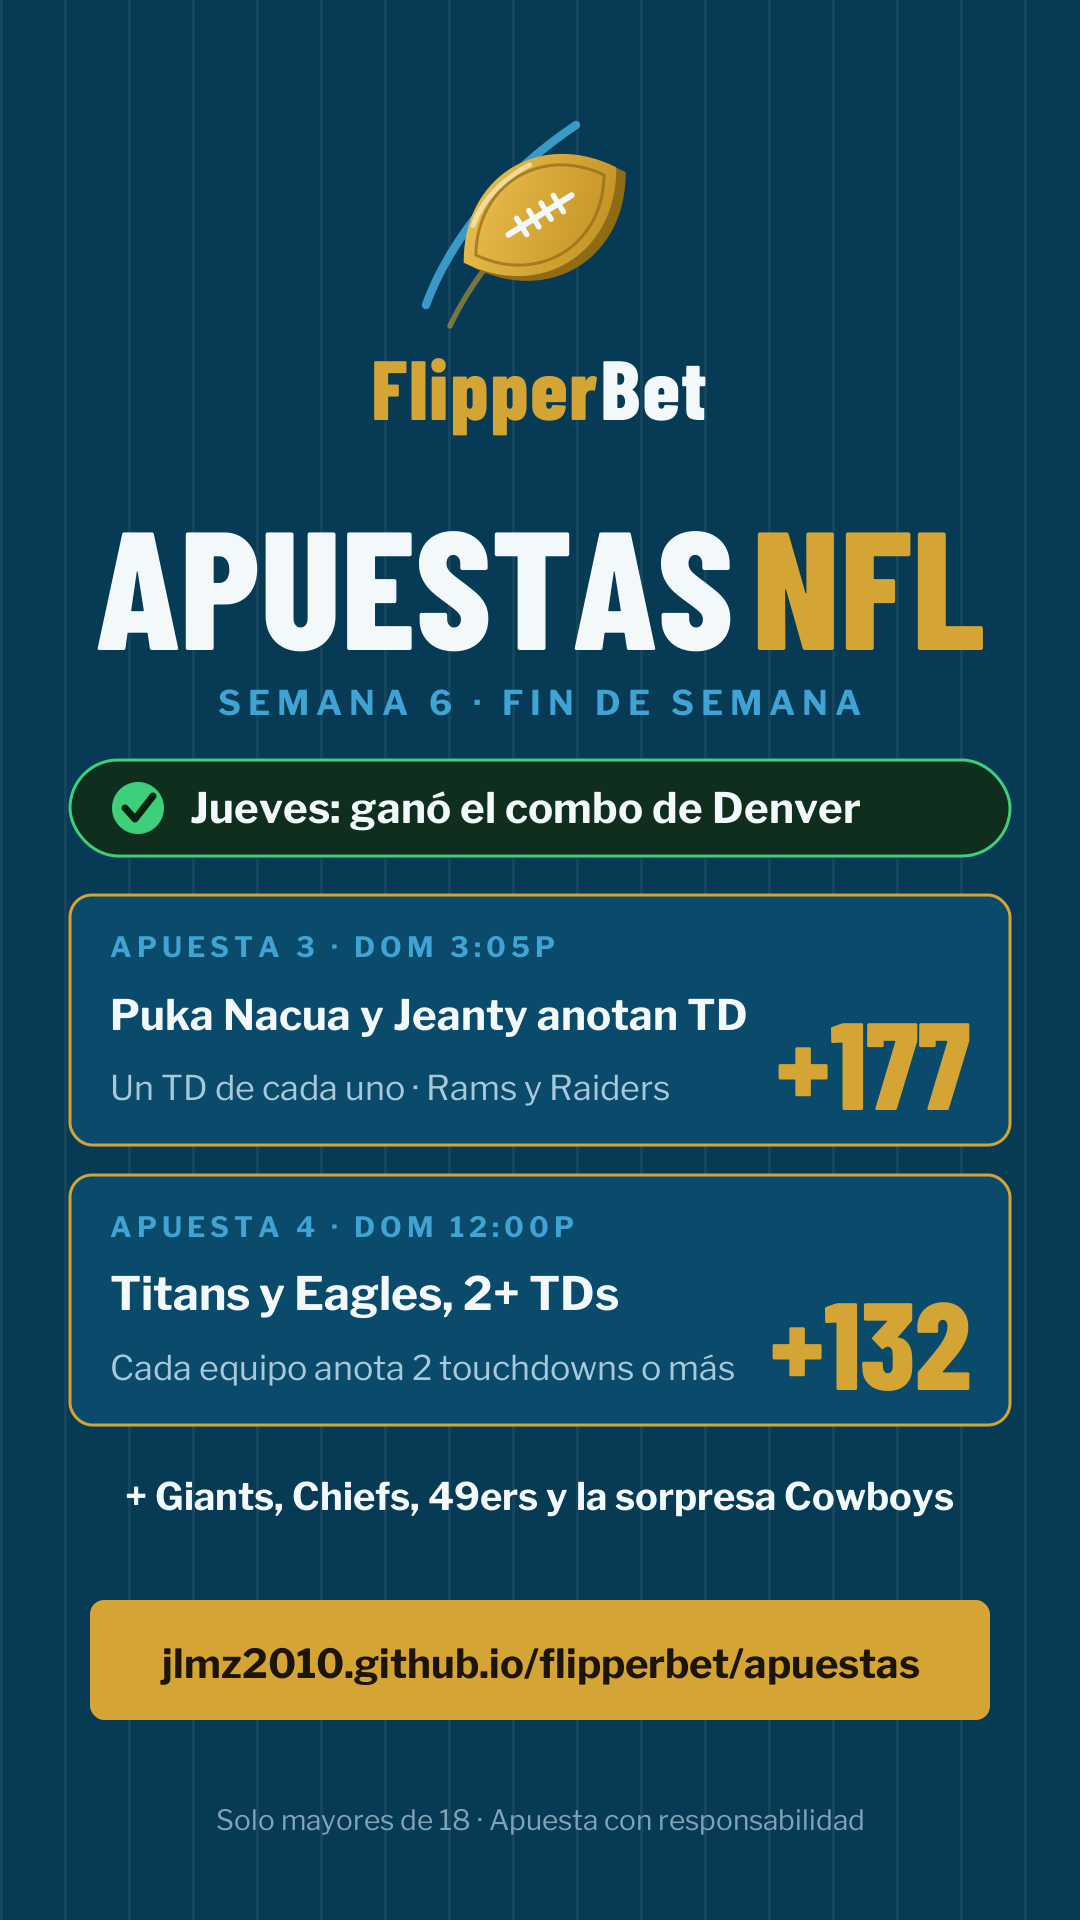
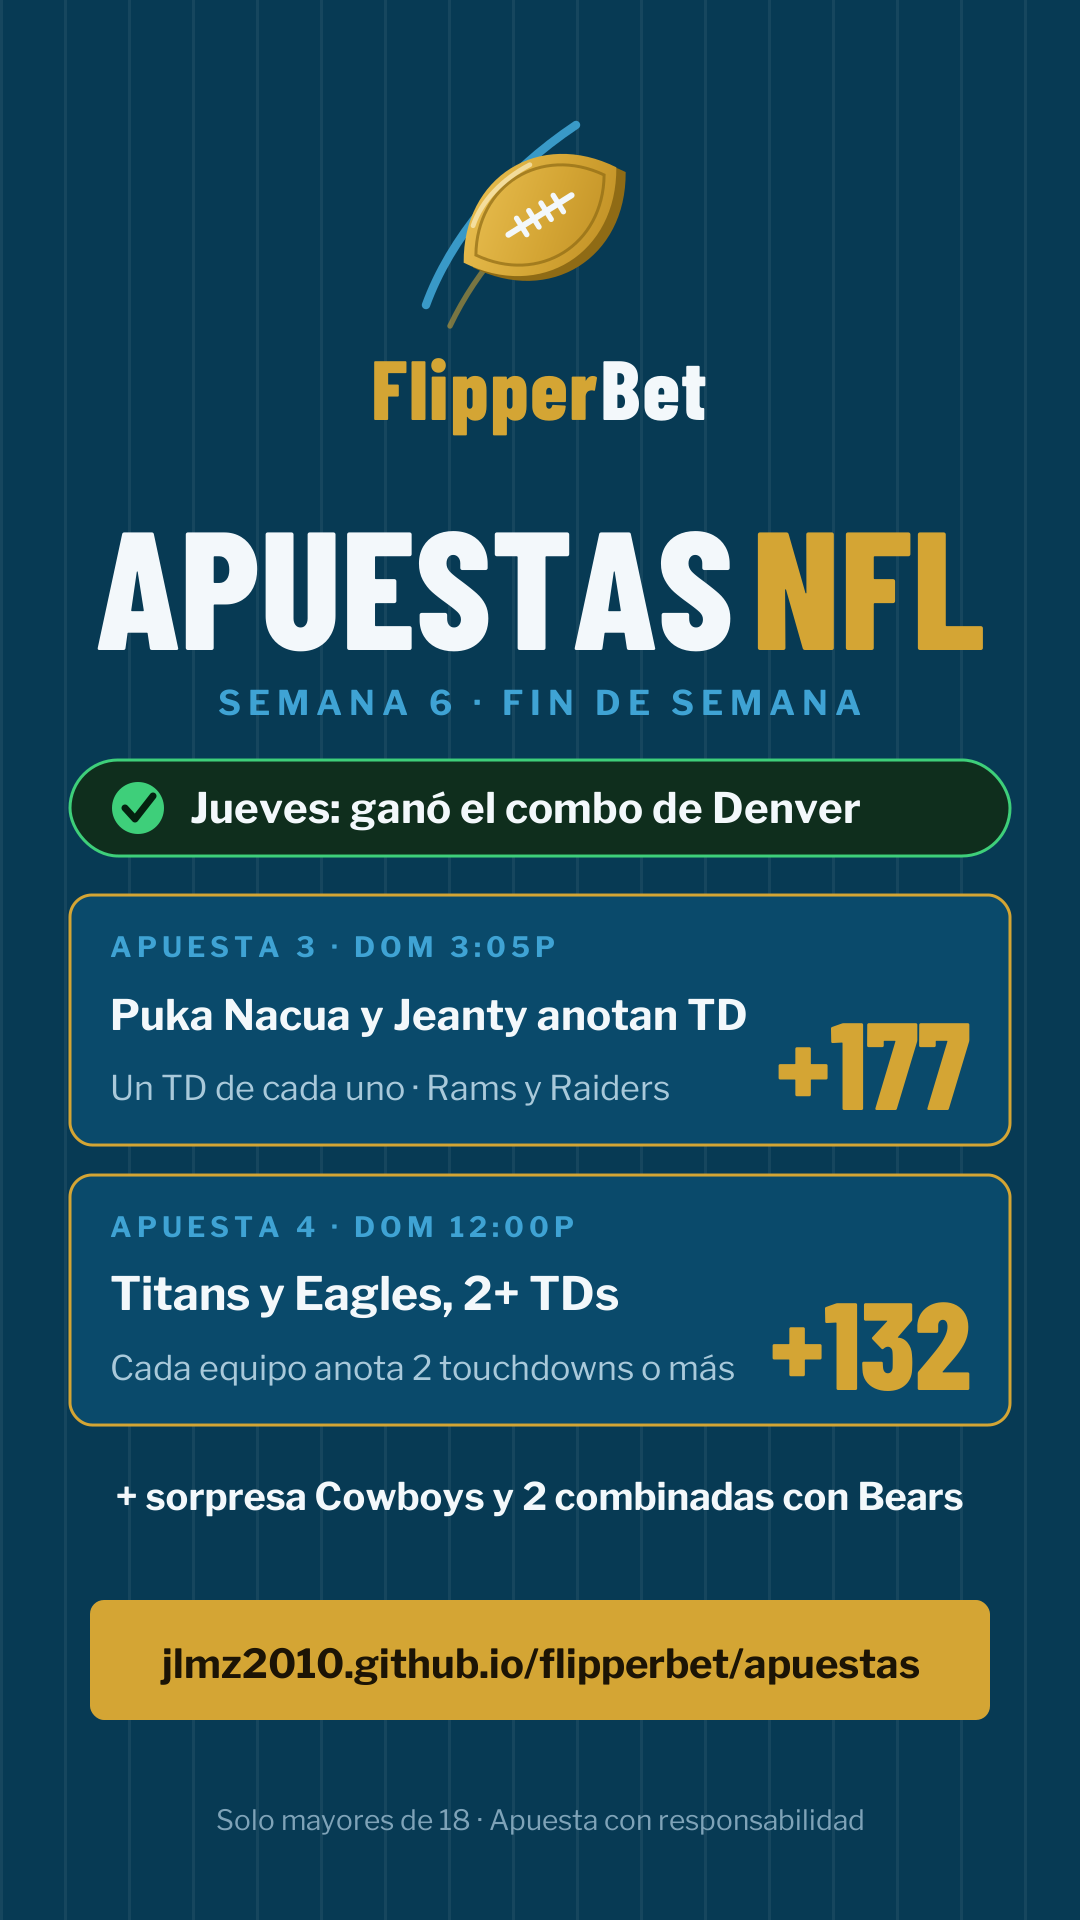
Semana 6: historias de apuestas con sorpresa Cowboys y jugadas 5 y 6
Claude-Session: https://claude.ai/code/session_01QeM3HeHPtdJUYaWBPFXKuZ

Changed region(s): [[0.2139, 0.75, 0.6722, 0.8125], [0.7333, 0.75, 0.8861, 0.8125], [0.1222, 0.75, 0.2139, 0.8125]]

diff --git a/tools/historias_apuestas.py b/tools/historias_apuestas.py
@@ -96,7 +96,7 @@ SEMANAS = {
     6: dict(jueves="Jueves: ganó el combo de Denver",
             b3=("APUESTA 3 · DOM 3:05P", "Puka Nacua y Jeanty anotan TD", "+177", "Un TD de cada uno · Rams y Raiders", 42),
             b4=("APUESTA 4 · DOM 12:00P", "Titans y Eagles, 2+ TDs", "+132", "Cada equipo anota 2 touchdowns o más", 46),
-            extra="+ Giants, Chiefs, 49ers y la sorpresa Cowboys"),
+            extra="+ sorpresa Cowboys y 2 combinadas con Bears"),
 }
 
 def story(ig):
